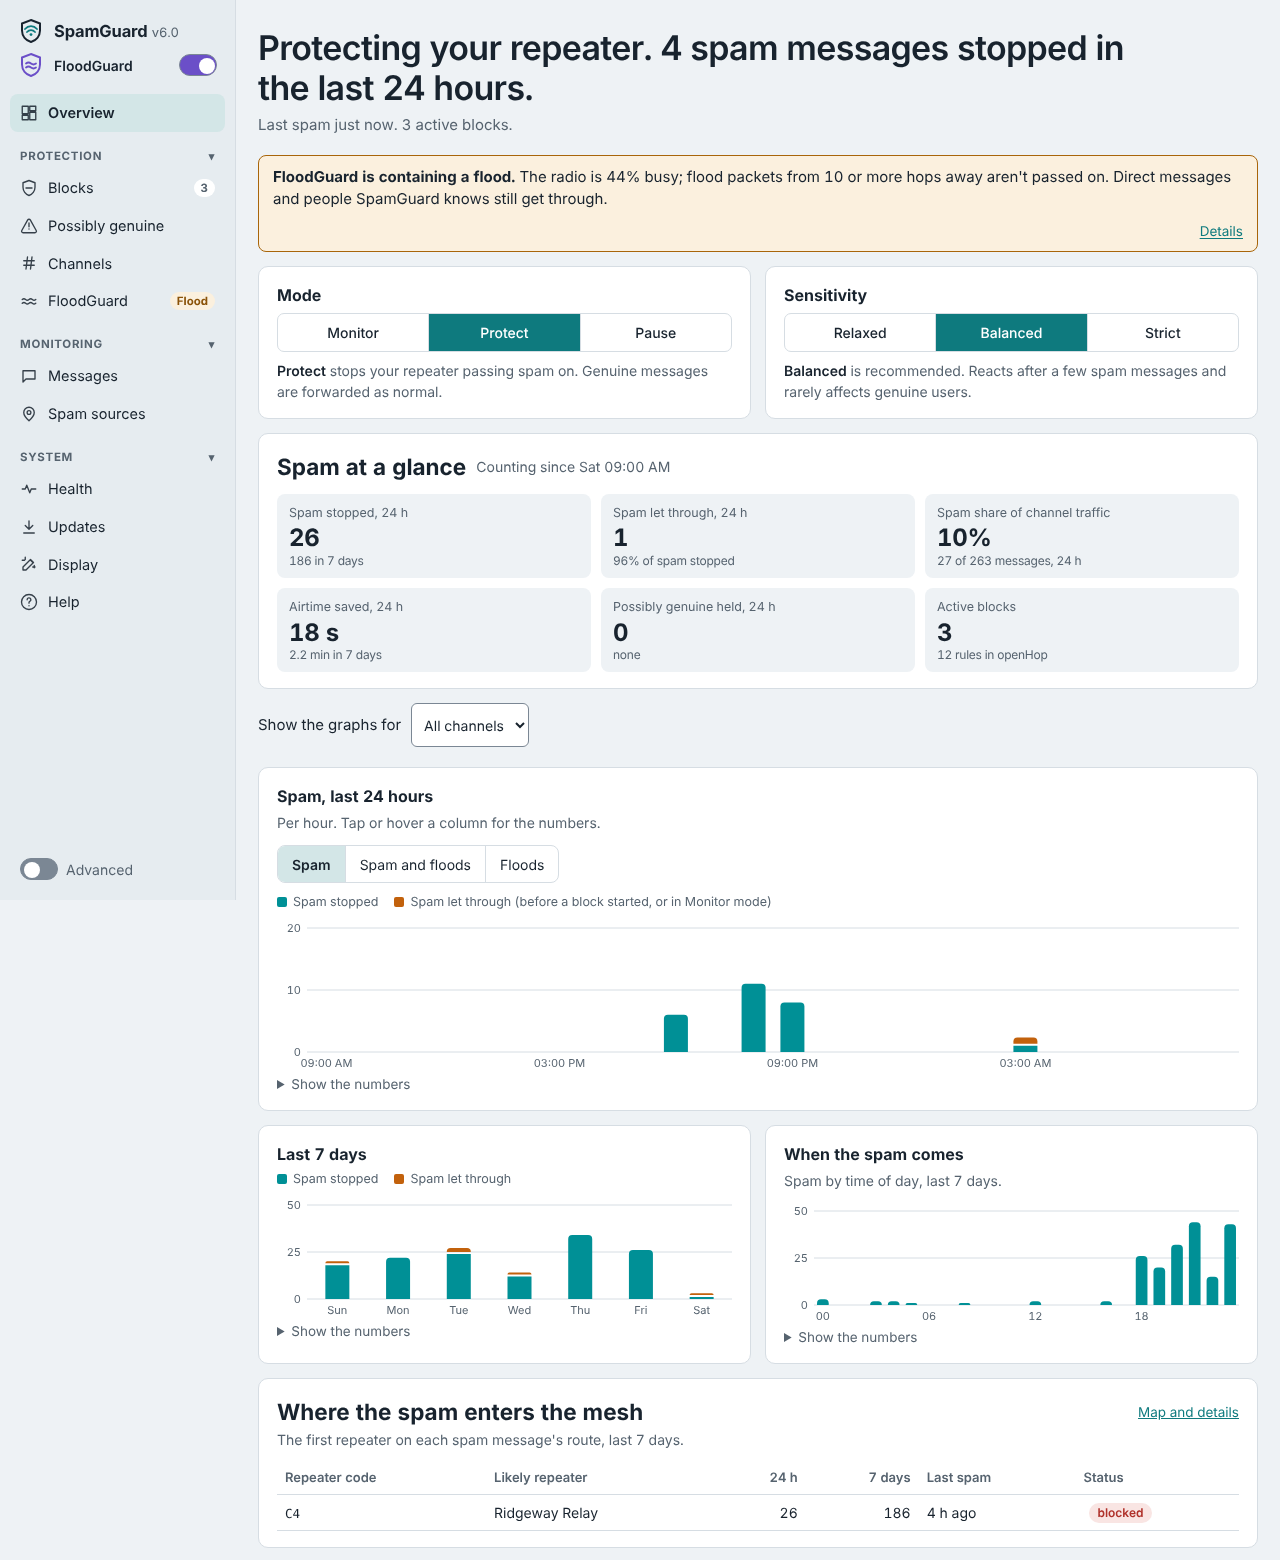
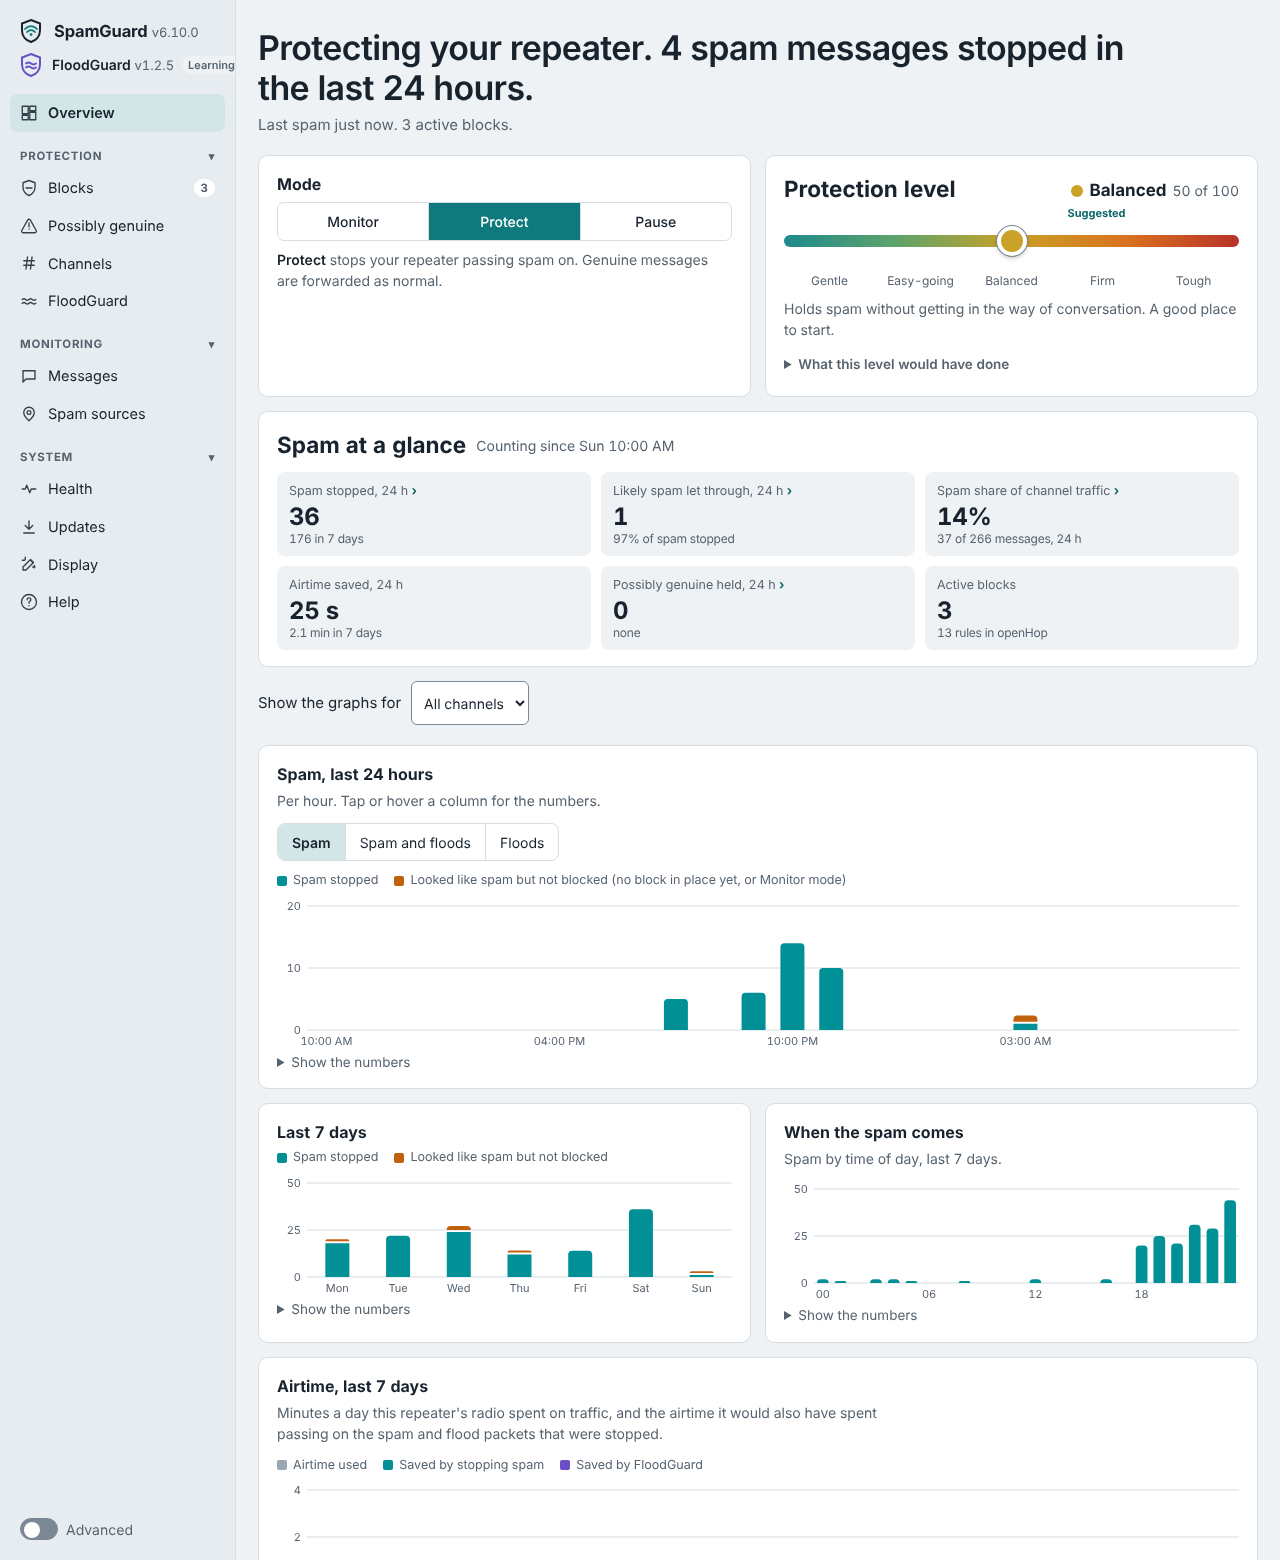
Docs and screenshots for the protection level, Messages and the map (#37)
New README screenshots for the Overview, the Messages quarantine, what
each protection level would have held, and the map with a repeat
spammer. The README, install guide and architecture notes now describe
the Messages list. All screenshots use made-up data.

Claude-Session: https://claude.ai/code/session_01YFQdJAL6HigBhZ6QPuW6B9

diff --git a/docs/install-and-troubleshooting.md b/docs/install-and-troubleshooting.md
@@ -60,7 +60,7 @@ A fresh install ends with SpamGuard running in Monitor mode, so nothing is block
     `active` and `"state": "ok"` mean it is working.
 
 5. **Open the page** at `http://<pi-ip>:8091` and check the Health panel says Healthy and "Restart if it hangs" is on.
-6. **Leave it in Monitor for a day.** Messages it would have stopped are tagged "Would be stopped". Press **Not spam** on anything genuine, **This is spam** on anything it missed. Then switch to **Protect**. If you don't, SpamGuard switches itself once it has watched for a day and seen enough spam, unless you've marked something as Not spam.
+6. **Leave it in Monitor for a day.** Messages it would have stopped are tagged "Would be stopped". In **Messages**, press **Let it through** on anything genuine and **Stop copies like this** on anything it missed. Then switch to **Protect**. If you don't, SpamGuard switches itself once it has watched for a day and seen enough spam, unless you've marked something as Not spam.
 7. **Switch to Protect** on the page when you are happy it only catches spam.
 
 Optional: Advanced > Detection settings > **Keep an evidence log**, so detection can be tuned against your real traffic later.
@@ -124,8 +124,8 @@ Start with the Health panel on the page and the last 50 log lines; most problems
 | Times on the page are an hour or more out | Pi's time zone not set (it defaults to UTC) | See Pi housekeeping below. |
 | Newest message is old | Quiet channel, or checking stopped | Check the footer "last checked"; if it is not "just now", restart SpamGuard and send the log. |
 | "Restart if it hangs: off" on the page | Old service settings | Re-run `sudo bash install.sh` from the package folder. |
-| Genuine people being blocked | A rule too broad for your traffic | Press **Not spam** on their message, remove the block, or slide the protection level gentler. |
-| Spam getting through | Spam doesn't match the current signs yet | Press **This is spam**; slide the protection level tougher during an attack; keep the evidence log on for tuning. |
+| Genuine people being blocked | A rule too broad for your traffic | In **Messages**, choose **Held** and press **Let it through**, remove the block, or slide the protection level gentler. |
+| Spam getting through | Spam doesn't match the current signs yet | In **Messages**, choose **Spam let through** and press **Stop copies like this**; slide the protection level tougher during an attack; keep the evidence log on for tuning. |
 | Restart command doesn't return | Service stuck stopping | In a second window: `sudo systemctl kill -s KILL openhop-spamguard` then `sudo systemctl start openhop-spamguard`. |
 
 If something looks wrong, collect these three and send them for diagnosis:
@@ -142,8 +142,8 @@ curl -s http://127.0.0.1:8091/health
 
 | Symptom | Check / fix |
 |---|---|
-| A regular's messages are held by a repeater block | They aren't known yet. Press **Not spam** on their message: that trusts them and lets them through at once. |
-| A newcomer's link was held | Links from unknown names are held during spam campaigns. Press **Not spam**, or set Advanced > Known people > Hold links to Never. |
+| A regular's messages are held by a repeater block | They aren't known yet. In **Messages**, open their held message and press **Let it through**: that trusts them and lets them through at once. |
+| A newcomer's link was held | Links from unknown names are held during spam campaigns. Press **Let it through** on it in **Messages**, or set Advanced > Known people > Hold links to Never. |
 | Lockdown is holding too many people | Press **End lockdown**. The page shows how many names SpamGuard knows; with only a few, most people are held. |
 | One named account keeps posting things people don't like | That's a person, not spam, so SpamGuard leaves it alone (see "What SpamGuard blocks, and what it doesn't" in the README). Anyone who doesn't want to read it can block or hide that sender in their own MeshCore app. If they post the same message over and over, the repeat guard holds back the further copies; copy-paste floods and random-name waves are caught as spam too. |
 | openHop shows a policy object called `spamguard` | That's the known-people list. SpamGuard keeps it up to date and the uninstaller removes it. |

diff --git a/README.md b/README.md
@@ -39,11 +39,15 @@ Most MeshCore spam tools either hide spam on your own phone, while the mesh stil
 - **Settings profiles:** save tuned settings, put them back later, or share them with other operators as a small file (never your channels, keys or exceptions).
 - **Looks after itself:** a simple web page, automatic self-repair, gentle on SD cards, and updates only when you press Update.
 
-![SpamGuard's web page (example data)](docs/screenshot-overview.png)
+![SpamGuard's Overview: mode, protection level and the spam numbers, each of which opens the matching messages (example data)](docs/screenshot-overview.png)
+
+![Messages: every channel message in one quarantine list, with what SpamGuard did and why (example data)](docs/screenshot-messages.png)
+
+![The protection level slider, with what each level would have held on this repeater's own traffic (example data)](docs/screenshot-level.png)
+
+![The Spam sources map: where spam entered the mesh, with a repeat spammer shown as one sender (example data)](docs/screenshot-sources.png)
 
 ![FloodGuard's page while it contains a flood (example data)](docs/screenshot-floodguard.png)
-
-![The Spam sources map, showing where spam entered the mesh (example data)](docs/screenshot-sources.png)
 
 _Example data: names and numbers are made up._
 
@@ -84,15 +88,17 @@ Step-by-step guide and troubleshooting: [docs/install-and-troubleshooting.md](do
 SpamGuard learns from your mesh, so it gets better the longer it runs.
 
 - **A few copies of each brand-new spam wave get through** while it confirms it's a campaign. After that the wave is blocked, and if it comes back later it's stopped from the first copy.
-- **Your regulars become known** and are always let through. For the first day or two a genuine newcomer is more likely to be held, so press **Not spam** on their message and they're let through straight away.
+- **Your regulars become known** and are always let through. For the first day or two a genuine newcomer is more likely to be held, so open **Messages**, choose **Held**, and press **Let it through** on their message; they're let through straight away.
 - **Restarts and updates keep everything it has learnt.**
 
 ## Everyday use
 
 | You want to... | Do this |
 |---|---|
-| Let a genuine person through | Press **Let through** under "Possibly genuine, held", or **Not spam** on their message |
-| Stop something it missed | Press **This is spam** on the message |
+| Let a genuine person through | Open **Messages**, choose **Held** (or click "Possibly genuine held" on the Overview), then **Let it through** |
+| See what SpamGuard stopped, and why | Click **Spam stopped** on the Overview, or open **Messages** |
+| Make it gentler or tougher | Slide the **Protection level** on the Overview; open "What this level would have done" to see the effect on your own traffic |
+| Stop something it missed | In **Messages**, open it and press **Stop copies like this** |
 | Ride out a heavy attack | Press **Lockdown** at the bottom of Blocks (30 min to 2 hours, ends by itself) |
 | See where spam comes from | Open **Spam sources** in the menu |
 | Pause all blocking | Press **Pause** on the Overview |

diff --git a/docs/architecture.md b/docs/architecture.md
@@ -42,10 +42,13 @@ those rules expire by themselves.
 4. **FloodGuard.** Measures how busy the radio is from the packets openHop reports, learns what's normal for
    the site, and adds hop limits when the radio is flooded. It also watches the noise floor for interference.
 5. **Web page.** A single page (`ui.html`) served by SpamGuard's built-in web server. It reads one status
-   endpoint and sends changes as JSON. An optional access key protects every change and the evidence
-   download.
-6. **Evidence log.** Optional daily files of what SpamGuard saw and did, for checking its decisions and for
-   the replay tool (`replay.py`), which re-runs a log with different settings.
+   endpoint and sends changes as JSON. The message list (Messages) is asked for separately, as JSON, because
+   it can hold up to 7 days of channel messages. An optional access key protects every change, the message
+   list and the evidence download.
+6. **Evidence log.** Optional daily files of what SpamGuard saw and did, for checking its decisions, for the
+   7-day message list, and for the replay tool (`replay.py`), which re-runs a log with different settings.
+   Once a day SpamGuard runs the replay itself, at the lowest priority, to show what each protection level
+   would have held.
 7. **Updates.** An optional check against this repository's releases. An update downloads the release file
    over HTTPS from this repository only. The files are also signed, so anyone can check them by hand (see
    [SECURITY.md](../SECURITY.md)).
